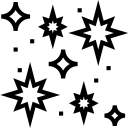
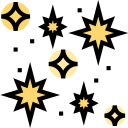
more color ammo box and sparkles

diff --git a/resources/resources.md b/resources/resources.md
@@ -15,8 +15,8 @@
   - [cupcake monster](https://www.flaticon.com/free-icon/cupcake_3473934?term=cake%20monster&related_id=3473934)
   - [revolver](https://www.flaticon.com/free-icon/revolver_3464006?term=revolver&page=1&position=46&page=1&position=46&related_id=3464006&origin=search)
   - [bullet](https://www.flaticon.com/free-icon/bullet_473484?term=bullet&page=2&position=10&page=2&position=10&related_id=473484&origin=search)
-  - [ammo box](https://www.flaticon.com/free-icon/box_4611172?term=ammo%20box&page=1&position=7&page=1&position=7&related_id=4611172&origin=search)
-  - [sparkles](https://www.flaticon.com/free-icon/miscellaneous_1740227?term=sparkles&page=1&position=49&page=1&position=49&related_id=1740227&origin=search)
+  - [ammo box](https://www.flaticon.com/free-icon/box_4611487?term=ammo%20box&page=1&position=6&page=1&position=6&related_id=4611487&origin=search)
+  - [sparkles](https://www.flaticon.com/free-icon/miscellaneous_1740304?term=sparkles&page=1&position=35&page=1&position=35&related_id=1740304&origin=search)
   - [mystery box](https://www.flaticon.com/free-icon/question_3409508?term=mystery%20box&page=1&position=2&page=1&position=2&related_id=3409508&origin=search)
 - [Image Resizing](https://www.img2go.com/)
 - [Online Image Tools](https://onlineimagetools.com/)
